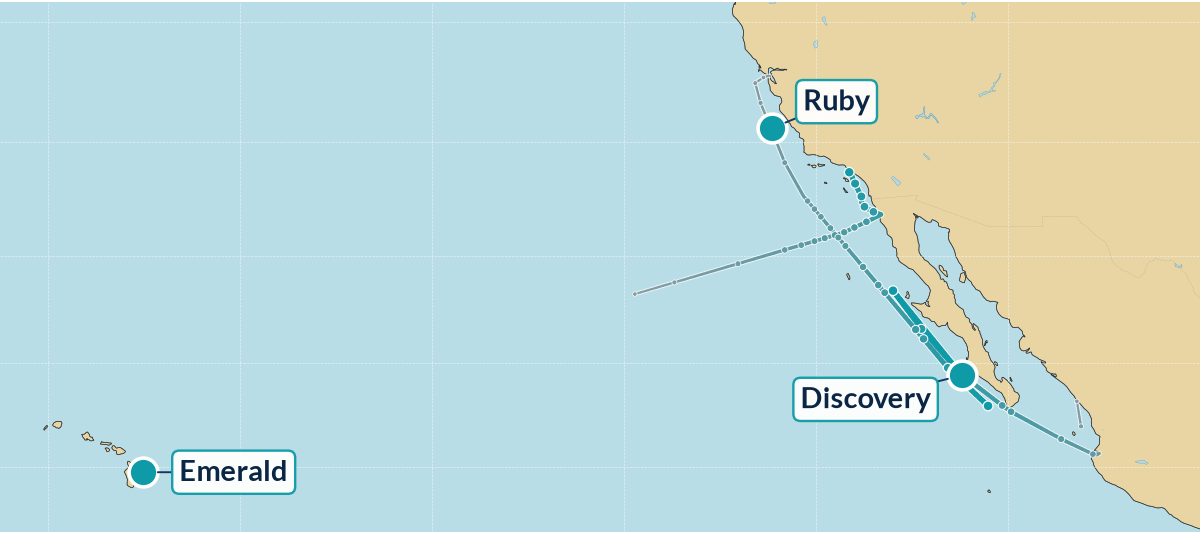
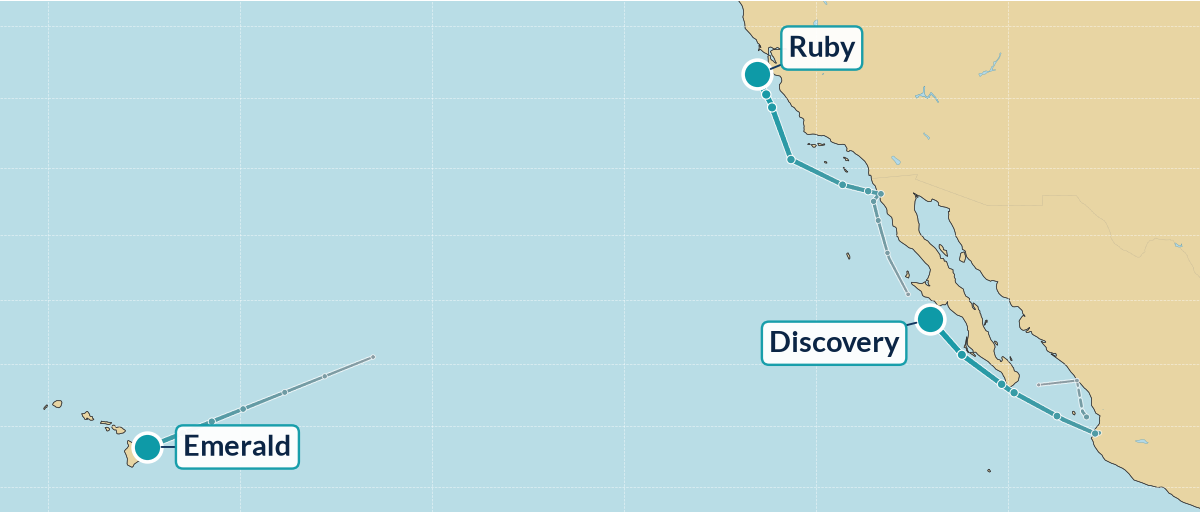
Update 10/23 00:00 PT

diff --git a/index.html b/index.html
@@ -1,48 +1,48 @@
 <!DOCTYPE html><html lang="en"><head><meta charset="utf-8"><meta name="viewport" content="width=device-width, initial-scale=1"><meta http-equiv="refresh" content="1800"><meta name="description" content="Live Princess Cruises fleet tracker"><title>Princess Patter — Thursday, October 22, 2026</title></head>
 <body style="margin:0;padding:0;background-color:#dee2e8;">
-<div style="display:none;max-height:0;overflow:hidden;opacity:0;color:#dee2e8;font-size:1px;line-height:1px;">Thursday, October 22, 2026 — 4:00pm PT | 17 ships | 12 at sea, 5 in port</div>
+<div style="display:none;max-height:0;overflow:hidden;opacity:0;color:#dee2e8;font-size:1px;line-height:1px;">Thursday, October 22, 2026 — 11:00pm PT | 17 ships | 12 at sea, 5 in port</div>
 <table role="presentation" width="100%" cellpadding="0" cellspacing="0" border="0" bgcolor="#dee2e8" style="background-color:#dee2e8;border-collapse:collapse;"><tr><td align="center" style="padding:16px 8px;">
 <table role="presentation" width="100%" cellpadding="0" cellspacing="0" border="0" bgcolor="#fdfdfb" style="width:100%;max-width:900px;background-color:#fdfdfb;border-collapse:collapse;border:1px solid #d6dae0;">
 <tr><td bgcolor="#1d3a6b" align="left" style="background-color:#1d3a6b;padding:24px 28px 24px 28px;"><div style="font-family:Georgia, 'Times New Roman', Times, serif;font-size:40px;line-height:46px;color:#ffffff;letter-spacing:0.5px;"><span style="color:#a8b6e2;">≋</span>&nbsp;Princess Patter</div></td></tr>
-<tr><td style="padding:0;"><table role="presentation" width="100%" cellpadding="0" cellspacing="0" border="0" style="border-collapse:collapse;"><tr><td height="5" bgcolor="#6a5aa8" style="background-color:#6a5aa8;height:5px;font-size:0;line-height:0;width:60%;">&nbsp;</td><td height="5" bgcolor="#2f6db5" style="background-color:#2f6db5;height:5px;font-size:0;line-height:0;width:40%;">&nbsp;</td></tr></table></td></tr><tr><td bgcolor="#1d3a6b" style="background:linear-gradient(#1d3a6b,#2f6db5);padding:10px 16px 14px;text-align:center;"><img src="regal.png?v=202610222301" alt="Regal Princess" style="width:100%;max-width:640px;height:auto;display:block;margin:0 auto;"></td></tr>
+<tr><td style="padding:0;"><table role="presentation" width="100%" cellpadding="0" cellspacing="0" border="0" style="border-collapse:collapse;"><tr><td height="5" bgcolor="#6a5aa8" style="background-color:#6a5aa8;height:5px;font-size:0;line-height:0;width:60%;">&nbsp;</td><td height="5" bgcolor="#2f6db5" style="background-color:#2f6db5;height:5px;font-size:0;line-height:0;width:40%;">&nbsp;</td></tr></table></td></tr><tr><td bgcolor="#1d3a6b" style="background:linear-gradient(#1d3a6b,#2f6db5);padding:10px 16px 14px;text-align:center;"><img src="regal.png?v=202610230000" alt="Regal Princess" style="width:100%;max-width:640px;height:auto;display:block;margin:0 auto;"></td></tr>
 <tr><td style="padding:22px 20px 6px 20px;">
-<div style="font-family:Georgia, 'Times New Roman', Times, serif;font-style:italic;font-size:20px;line-height:26px;color:#2f6db5;">Good afternoon!</div>
+<div style="font-family:Georgia, 'Times New Roman', Times, serif;font-style:italic;font-size:20px;line-height:26px;color:#2f6db5;">Good evening!</div>
 <div style="font-family:Georgia, 'Times New Roman', Times, serif;font-weight:bold;font-size:26px;line-height:32px;color:#1d3a6b;padding-top:6px;">Thursday, October 22, 2026</div>
-<div style="font-family:Helvetica, Arial, sans-serif;font-size:16px;line-height:22px;color:#2f6db5;padding-top:4px;">4:00pm PT | 17 ships | 12 at sea, 5 in port</div>
-</td></tr><tr><td style="padding:14px 20px 0 20px;"><div style="font-family:Georgia, 'Times New Roman', Times, serif;font-style:italic;font-weight:bold;font-size:18px;color:#295aa0;padding:0 4px 4px;border-bottom:1px solid #295aa0;">pacific map</div><a href="map.png?v=202610222301"><img src="map.png?v=202610222301" alt="Pacific fleet map" style="width:100%;height:auto;display:block;margin-top:8px;border-radius:12px;border:2px solid #c8dee2;"></a></td></tr>
+<div style="font-family:Helvetica, Arial, sans-serif;font-size:16px;line-height:22px;color:#2f6db5;padding-top:4px;">11:00pm PT | 17 ships | 12 at sea, 5 in port</div>
+</td></tr><tr><td style="padding:14px 20px 0 20px;"><div style="font-family:Georgia, 'Times New Roman', Times, serif;font-style:italic;font-weight:bold;font-size:18px;color:#295aa0;padding:0 4px 4px;border-bottom:1px solid #295aa0;">pacific map</div><a href="map.png?v=202610230000"><img src="map.png?v=202610230000" alt="Pacific fleet map" style="width:100%;height:auto;display:block;margin-top:8px;border-radius:12px;border:2px solid #c8dee2;"></a></td></tr>
 <tr><td style="padding:14px 20px 4px 20px;">
 <table role="presentation" width="100%" cellpadding="0" cellspacing="0" border="0" style="border-collapse:collapse;width:100%;font-family:Helvetica, Arial, sans-serif;font-size:15px;line-height:20px;color:#262c38;">
 <tr bgcolor="#2f6db5" style="background-color:#2f6db5;"><td style="font-size:14px;line-height:18px;font-weight:bold;color:#ffffff;text-align:left;padding:9px 8px;padding-left:10px;" colspan="2">Ship</td><td style="font-size:14px;line-height:18px;font-weight:bold;color:#ffffff;text-align:left;padding:9px 8px;">Where</td><td style="font-size:14px;line-height:18px;font-weight:bold;color:#ffffff;text-align:left;padding:9px 8px;">Next Port</td></tr>
 <tr><td colspan="4" style="padding:14px 4px 4px 4px;border-bottom:1px solid #295aa0;font-family:Georgia, 'Times New Roman', Times, serif;font-style:italic;font-weight:bold;font-size:18px;line-height:22px;color:#295aa0;">california coastal &amp; pacific northwest</td></tr>
-<tr bgcolor="#eef0f3" style="background-color:#eef0f3;"><td width="18" style="padding:7px 0 7px 8px;vertical-align:top;width:18px;color:#1a9a9a;font-size:18px;">&nbsp;</td><td style="padding:7px 8px;vertical-align:top;"><b style="color:#1d3a6b;">Ruby</b></td><td style="padding:7px 8px;vertical-align:top;">At Sea <span style="white-space:nowrap;font-size:12px;color:#707884;" title="Forecast high/low">☁&thinsp;61°</span> <span style="font-size:12px;color:#707884;"><span style="white-space:nowrap;">🌊 8 ft</span> &middot; <span style="white-space:nowrap;">💨 NNW 22 kt</span> &middot; <span style="white-space:nowrap;">🚢 17.2 kn</span></span></td><td style="padding:7px 8px;vertical-align:top;">San Francisco <span style="white-space:nowrap;font-size:12px;color:#707884;" title="Forecast high/low">☁&thinsp;68°/52°</span> <span style="font-size:13px;color:#707884;">(10/23 7am)</span></td></tr>
+<tr bgcolor="#eef0f3" style="background-color:#eef0f3;"><td width="18" style="padding:7px 0 7px 8px;vertical-align:top;width:18px;color:#1a9a9a;font-size:18px;">&nbsp;</td><td style="padding:7px 8px;vertical-align:top;"><b style="color:#1d3a6b;">Ruby</b></td><td style="padding:7px 8px;vertical-align:top;">At Sea <span style="white-space:nowrap;font-size:12px;color:#707884;" title="Forecast high/low">☁&thinsp;60°</span> <span style="font-size:12px;color:#707884;"><span style="white-space:nowrap;">🌊 9 ft</span> &middot; <span style="white-space:nowrap;">💨 NW 19 kt</span> &middot; <span style="white-space:nowrap;">🚢 11.3 kn</span></span></td><td style="padding:7px 8px;vertical-align:top;">San Francisco <span style="white-space:nowrap;font-size:12px;color:#707884;" title="Forecast high/low">☁&thinsp;68°/52°</span> <span style="font-size:13px;color:#707884;">(10/23 7am)</span></td></tr>
 <tr><td colspan="4" style="padding:14px 4px 4px 4px;border-bottom:1px solid #295aa0;font-family:Georgia, 'Times New Roman', Times, serif;font-style:italic;font-weight:bold;font-size:18px;line-height:22px;color:#295aa0;">canada &amp; new england</td></tr>
-<tr bgcolor="#eef0f3" style="background-color:#eef0f3;"><td width="18" style="padding:7px 0 7px 8px;vertical-align:top;width:18px;color:#1a9a9a;font-size:18px;">&nbsp;</td><td style="padding:7px 8px;vertical-align:top;"><b style="color:#1d3a6b;">Majestic</b></td><td style="padding:7px 8px;vertical-align:top;">Halifax <span style="white-space:nowrap;font-size:12px;color:#707884;" title="Forecast high/low">☁&thinsp;44°</span> <span style="font-size:13px;color:#707884;">(5pm)</span></td><td style="padding:7px 8px;vertical-align:top;">New York <span style="white-space:nowrap;font-size:12px;color:#707884;" title="Forecast high/low">☁&thinsp;61°/36°</span> <span style="font-size:13px;color:#707884;">(10/24 4am)</span></td></tr>
+<tr bgcolor="#eef0f3" style="background-color:#eef0f3;"><td width="18" style="padding:7px 0 7px 8px;vertical-align:top;width:18px;color:#1a9a9a;font-size:18px;">&nbsp;</td><td style="padding:7px 8px;vertical-align:top;"><b style="color:#1d3a6b;">Majestic</b></td><td style="padding:7px 8px;vertical-align:top;">At Sea <span style="white-space:nowrap;font-size:12px;color:#707884;" title="Forecast high/low">🌙&thinsp;50°</span> <span style="font-size:12px;color:#707884;"><span style="white-space:nowrap;">🌊 10 ft</span> &middot; <span style="white-space:nowrap;">💨 N 30 kt</span> &middot; <span style="white-space:nowrap;">🚢 18.5 kn</span></span></td><td style="padding:7px 8px;vertical-align:top;">New York <span style="white-space:nowrap;font-size:12px;color:#707884;" title="Forecast high/low">☁&thinsp;61°/36°</span> <span style="font-size:13px;color:#707884;">(10/24 4am)</span></td></tr>
 <tr bgcolor="#ffffff" style="background-color:#ffffff;"><td width="18" style="padding:7px 0 7px 8px;vertical-align:top;width:18px;color:#1a9a9a;font-size:18px;">&nbsp;</td><td style="padding:7px 8px;vertical-align:top;"><b style="color:#1d3a6b;">Sapphire</b></td><td style="padding:7px 8px;vertical-align:top;">Quebec City <span style="font-size:13px;color:#707884;">(10/23 2pm)</span></td><td style="padding:7px 8px;vertical-align:top;">Saguenay <span style="white-space:nowrap;font-size:12px;color:#707884;" title="Forecast high/low">☀&thinsp;51°/32°</span> <span style="font-size:13px;color:#707884;">(10/24 4am)</span></td></tr>
 <tr><td colspan="4" style="padding:14px 4px 4px 4px;border-bottom:1px solid #295aa0;font-family:Georgia, 'Times New Roman', Times, serif;font-style:italic;font-weight:bold;font-size:18px;line-height:22px;color:#295aa0;">caribbean</td></tr>
-<tr bgcolor="#eef0f3" style="background-color:#eef0f3;"><td width="18" style="padding:7px 0 7px 8px;vertical-align:top;width:18px;color:#1a9a9a;font-size:18px;">&nbsp;</td><td style="padding:7px 8px;vertical-align:top;"><b style="color:#1d3a6b;">Caribbean</b></td><td style="padding:7px 8px;vertical-align:top;">Oranjestad <span style="white-space:nowrap;font-size:12px;color:#707884;" title="Forecast high/low">☁&thinsp;83°</span> <span style="font-size:13px;color:#707884;">(7pm)</span></td><td style="padding:7px 8px;vertical-align:top;">Willemstad <span style="white-space:nowrap;font-size:12px;color:#707884;" title="Forecast high/low">☁&thinsp;89°/82°</span> <span style="font-size:13px;color:#707884;">(10/23 5am)</span></td></tr>
-<tr bgcolor="#ffffff" style="background-color:#ffffff;"><td width="18" style="padding:7px 0 7px 8px;vertical-align:top;width:18px;color:#1a9a9a;font-size:18px;">&nbsp;</td><td style="padding:7px 8px;vertical-align:top;"><b style="color:#1d3a6b;">Coral</b></td><td style="padding:7px 8px;vertical-align:top;">At Sea <span style="white-space:nowrap;font-size:12px;color:#707884;" title="Forecast high/low">🌙&thinsp;83°</span> <span style="font-size:12px;color:#707884;"><span style="white-space:nowrap;">🌊 3 ft</span> &middot; <span style="white-space:nowrap;">💨 ESE 13 kt</span> &middot; <span style="white-space:nowrap;">🚢 10.7 kn</span></span></td><td style="padding:7px 8px;vertical-align:top;">Port-of-Spain <span style="white-space:nowrap;font-size:12px;color:#707884;" title="Forecast high/low">☀&thinsp;90°/75°</span> <span style="font-size:13px;color:#707884;">(10/23 4am)</span></td></tr>
-<tr bgcolor="#eef0f3" style="background-color:#eef0f3;"><td width="18" style="padding:7px 0 7px 8px;vertical-align:top;width:18px;color:#1a9a9a;font-size:18px;">&nbsp;</td><td style="padding:7px 8px;vertical-align:top;"><b style="color:#1d3a6b;">Regal</b></td><td style="padding:7px 8px;vertical-align:top;">At Sea <span style="white-space:nowrap;font-size:12px;color:#707884;" title="Forecast high/low">☁&thinsp;84°</span> <span style="font-size:12px;color:#707884;"><span style="white-space:nowrap;">🌊 7 ft</span> &middot; <span style="white-space:nowrap;">💨 ESE 9 kt</span> &middot; <span style="white-space:nowrap;">🚢 16.4 kn</span></span></td><td style="padding:7px 8px;vertical-align:top;">Fort Lauderdale <span style="white-space:nowrap;font-size:12px;color:#707884;" title="Forecast high/low">🌧&thinsp;79°/68°</span> <span style="font-size:13px;color:#707884;">(10/24 3am)</span></td></tr>
-<tr bgcolor="#ffffff" style="background-color:#ffffff;"><td width="18" style="padding:7px 0 7px 8px;vertical-align:top;width:18px;color:#1a9a9a;font-size:18px;">&nbsp;</td><td style="padding:7px 8px;vertical-align:top;"><b style="color:#1d3a6b;">Star</b></td><td style="padding:7px 8px;vertical-align:top;">At Sea <span style="white-space:nowrap;font-size:12px;color:#707884;" title="Forecast high/low">☁&thinsp;84°</span> <span style="font-size:12px;color:#707884;"><span style="white-space:nowrap;">🌊 7 ft</span> &middot; <span style="white-space:nowrap;">💨 ESE 9 kt</span> &middot; <span style="white-space:nowrap;">🚢 18.3 kn</span></span></td><td style="padding:7px 8px;vertical-align:top;">Fort Lauderdale <span style="white-space:nowrap;font-size:12px;color:#707884;" title="Forecast high/low">🌧&thinsp;79°/68°</span> <span style="font-size:13px;color:#707884;">(10/24 3am)</span></td></tr>
+<tr bgcolor="#eef0f3" style="background-color:#eef0f3;"><td width="18" style="padding:7px 0 7px 8px;vertical-align:top;width:18px;color:#1a9a9a;font-size:18px;">&nbsp;</td><td style="padding:7px 8px;vertical-align:top;"><b style="color:#1d3a6b;">Caribbean</b></td><td style="padding:7px 8px;vertical-align:top;">At Sea <span style="white-space:nowrap;font-size:12px;color:#707884;" title="Forecast high/low">☁&thinsp;83°</span> <span style="font-size:12px;color:#707884;"><span style="white-space:nowrap;">🌊 4 ft</span> &middot; <span style="white-space:nowrap;">💨 ESE 17 kt</span></span></td><td style="padding:7px 8px;vertical-align:top;">Willemstad <span style="white-space:nowrap;font-size:12px;color:#707884;" title="Forecast high/low">☁&thinsp;88°/82°</span> <span style="font-size:13px;color:#707884;">(10/23 5am)</span></td></tr>
+<tr bgcolor="#ffffff" style="background-color:#ffffff;"><td width="18" style="padding:7px 0 7px 8px;vertical-align:top;width:18px;color:#1a9a9a;font-size:18px;">&nbsp;</td><td style="padding:7px 8px;vertical-align:top;"><b style="color:#1d3a6b;">Coral</b></td><td style="padding:7px 8px;vertical-align:top;">At Sea <span style="white-space:nowrap;font-size:12px;color:#707884;" title="Forecast high/low">☁&thinsp;82°</span> <span style="font-size:12px;color:#707884;"><span style="white-space:nowrap;">🌊 3 ft</span> &middot; <span style="white-space:nowrap;">💨 ESE 10 kt</span> &middot; <span style="white-space:nowrap;">🚢 10.4 kn</span></span></td><td style="padding:7px 8px;vertical-align:top;">Port-of-Spain <span style="white-space:nowrap;font-size:12px;color:#707884;" title="Forecast high/low">⛅&thinsp;91°/75°</span> <span style="font-size:13px;color:#707884;">(10/23 4am)</span></td></tr>
+<tr bgcolor="#eef0f3" style="background-color:#eef0f3;"><td width="18" style="padding:7px 0 7px 8px;vertical-align:top;width:18px;color:#1a9a9a;font-size:18px;">&nbsp;</td><td style="padding:7px 8px;vertical-align:top;"><b style="color:#1d3a6b;">Regal</b></td><td style="padding:7px 8px;vertical-align:top;">At Sea <span style="white-space:nowrap;font-size:12px;color:#707884;" title="Forecast high/low">☁&thinsp;83°</span> <span style="font-size:12px;color:#707884;"><span style="white-space:nowrap;">🌊 8 ft</span> &middot; <span style="white-space:nowrap;">💨 SSE 5 kt</span> &middot; <span style="white-space:nowrap;">🚢 16.9 kn</span></span></td><td style="padding:7px 8px;vertical-align:top;">Fort Lauderdale <span style="white-space:nowrap;font-size:12px;color:#707884;" title="Forecast high/low">🌧&thinsp;79°/68°</span> <span style="font-size:13px;color:#707884;">(10/24 3am)</span></td></tr>
+<tr bgcolor="#ffffff" style="background-color:#ffffff;"><td width="18" style="padding:7px 0 7px 8px;vertical-align:top;width:18px;color:#1a9a9a;font-size:18px;">&nbsp;</td><td style="padding:7px 8px;vertical-align:top;"><b style="color:#1d3a6b;">Star</b></td><td style="padding:7px 8px;vertical-align:top;">At Sea <span style="white-space:nowrap;font-size:12px;color:#707884;" title="Forecast high/low">☁&thinsp;83°</span> <span style="font-size:12px;color:#707884;"><span style="white-space:nowrap;">🌊 8 ft</span> &middot; <span style="white-space:nowrap;">💨 SSE 6 kt</span> &middot; <span style="white-space:nowrap;">🚢 18.9 kn</span></span></td><td style="padding:7px 8px;vertical-align:top;">Fort Lauderdale <span style="white-space:nowrap;font-size:12px;color:#707884;" title="Forecast high/low">🌧&thinsp;79°/68°</span> <span style="font-size:13px;color:#707884;">(10/24 3am)</span></td></tr>
 <tr><td colspan="4" style="padding:14px 4px 4px 4px;border-bottom:1px solid #295aa0;font-family:Georgia, 'Times New Roman', Times, serif;font-style:italic;font-weight:bold;font-size:18px;line-height:22px;color:#295aa0;">hawaii</td></tr>
-<tr bgcolor="#eef0f3" style="background-color:#eef0f3;"><td width="18" style="padding:7px 0 7px 8px;vertical-align:top;width:18px;color:#1a9a9a;font-size:18px;">&nbsp;</td><td style="padding:7px 8px;vertical-align:top;"><b style="color:#1d3a6b;">Emerald</b></td><td style="padding:7px 8px;vertical-align:top;">Hilo <span style="white-space:nowrap;font-size:12px;color:#707884;" title="Forecast high/low">🌙&thinsp;71°</span> <span style="font-size:13px;color:#707884;">(8pm)</span></td><td style="padding:7px 8px;vertical-align:top;">Kahului <span style="white-space:nowrap;font-size:12px;color:#707884;" title="Forecast high/low">🌦&thinsp;84°/73°</span> <span style="font-size:13px;color:#707884;">(10/23 10am)</span></td></tr>
+<tr bgcolor="#eef0f3" style="background-color:#eef0f3;"><td width="18" style="padding:7px 0 7px 8px;vertical-align:top;width:18px;color:#1a9a9a;font-size:18px;">&nbsp;</td><td style="padding:7px 8px;vertical-align:top;"><b style="color:#1d3a6b;">Emerald</b></td><td style="padding:7px 8px;vertical-align:top;">At Sea <span style="white-space:nowrap;font-size:12px;color:#707884;" title="Forecast high/low">🌙&thinsp;79°</span> <span style="font-size:12px;color:#707884;"><span style="white-space:nowrap;">🌊 5 ft</span> &middot; <span style="white-space:nowrap;">💨 S 4 kt</span> &middot; <span style="white-space:nowrap;">🚢 12.1 kn</span></span></td><td style="padding:7px 8px;vertical-align:top;">Kahului <span style="white-space:nowrap;font-size:12px;color:#707884;" title="Forecast high/low">☁&thinsp;84°/75°</span> <span style="font-size:13px;color:#707884;">(10/23 10am)</span></td></tr>
 <tr><td colspan="4" style="padding:14px 4px 4px 4px;border-bottom:1px solid #295aa0;font-family:Georgia, 'Times New Roman', Times, serif;font-style:italic;font-weight:bold;font-size:18px;line-height:22px;color:#295aa0;">mexican riviera</td></tr>
-<tr bgcolor="#eef0f3" style="background-color:#eef0f3;"><td width="18" style="padding:7px 0 7px 8px;vertical-align:top;width:18px;color:#1a9a9a;font-size:18px;">&nbsp;</td><td style="padding:7px 8px;vertical-align:top;"><b style="color:#1d3a6b;">Discovery</b></td><td style="padding:7px 8px;vertical-align:top;">At Sea <span style="white-space:nowrap;font-size:12px;color:#707884;" title="Forecast high/low">🌙&thinsp;82°</span> <span style="font-size:12px;color:#707884;"><span style="white-space:nowrap;">🌊 6 ft</span> &middot; <span style="white-space:nowrap;">💨 N 14 kt</span> &middot; <span style="white-space:nowrap;">🚢 20.7 kn</span></span></td><td style="padding:7px 8px;vertical-align:top;">Los Angeles <span style="white-space:nowrap;font-size:12px;color:#707884;" title="Forecast high/low">☀&thinsp;81°/55°</span> <span style="font-size:13px;color:#707884;">(10/24 6:15am)</span></td></tr>
+<tr bgcolor="#eef0f3" style="background-color:#eef0f3;"><td width="18" style="padding:7px 0 7px 8px;vertical-align:top;width:18px;color:#1a9a9a;font-size:18px;">&nbsp;</td><td style="padding:7px 8px;vertical-align:top;"><b style="color:#1d3a6b;">Discovery</b></td><td style="padding:7px 8px;vertical-align:top;">At Sea <span style="white-space:nowrap;font-size:12px;color:#707884;" title="Forecast high/low">🌙&thinsp;77°</span> <span style="font-size:12px;color:#707884;"><span style="white-space:nowrap;">🌊 6 ft</span> &middot; <span style="white-space:nowrap;">💨 NNW 17 kt</span> &middot; <span style="white-space:nowrap;">🚢 18.7 kn</span></span></td><td style="padding:7px 8px;vertical-align:top;">Los Angeles <span style="white-space:nowrap;font-size:12px;color:#707884;" title="Forecast high/low">☀&thinsp;81°/55°</span> <span style="font-size:13px;color:#707884;">(10/24 6:15am)</span></td></tr>
 <tr><td colspan="4" style="padding:14px 4px 4px 4px;border-bottom:1px solid #295aa0;font-family:Georgia, 'Times New Roman', Times, serif;font-style:italic;font-weight:bold;font-size:18px;line-height:22px;color:#295aa0;">asia</td></tr>
-<tr bgcolor="#eef0f3" style="background-color:#eef0f3;"><td width="18" style="padding:7px 0 7px 8px;vertical-align:top;width:18px;color:#1a9a9a;font-size:18px;">&nbsp;</td><td style="padding:7px 8px;vertical-align:top;"><b style="color:#1d3a6b;">Diamond</b></td><td style="padding:7px 8px;vertical-align:top;">At Sea <span style="white-space:nowrap;font-size:12px;color:#707884;" title="Forecast high/low">⛅&thinsp;70°</span> <span style="font-size:12px;color:#707884;"><span style="white-space:nowrap;">🌊 4 ft</span> &middot; <span style="white-space:nowrap;">💨 ESE 14 kt</span></span></td><td style="padding:7px 8px;vertical-align:top;">Hiroshima <span style="white-space:nowrap;font-size:12px;color:#707884;" title="Forecast high/low">🌧&thinsp;68°/57°</span> <span style="font-size:13px;color:#707884;">(10/23 3pm)</span></td></tr>
+<tr bgcolor="#eef0f3" style="background-color:#eef0f3;"><td width="18" style="padding:7px 0 7px 8px;vertical-align:top;width:18px;color:#1a9a9a;font-size:18px;">&nbsp;</td><td style="padding:7px 8px;vertical-align:top;"><b style="color:#1d3a6b;">Diamond</b></td><td style="padding:7px 8px;vertical-align:top;">At Sea <span style="white-space:nowrap;font-size:12px;color:#707884;" title="Forecast high/low">🌦&thinsp;68°</span> <span style="font-size:12px;color:#707884;"><span style="white-space:nowrap;">🌊 2 ft</span> &middot; <span style="white-space:nowrap;">💨 ESE 13 kt</span></span></td><td style="padding:7px 8px;vertical-align:top;">Hiroshima <span style="white-space:nowrap;font-size:12px;color:#707884;" title="Forecast high/low">🌧&thinsp;68°/57°</span> <span style="font-size:13px;color:#707884;">(10/23 3pm)</span></td></tr>
 <tr bgcolor="#ffffff" style="background-color:#ffffff;"><td width="18" style="padding:7px 0 7px 8px;vertical-align:top;width:18px;color:#1a9a9a;font-size:18px;">&nbsp;</td><td style="padding:7px 8px;vertical-align:top;"><b style="color:#1d3a6b;">Royal</b></td><td style="padding:7px 8px;vertical-align:top;">Singapore <span style="font-size:13px;color:#707884;">(Drydock)</span></td><td style="padding:7px 8px;vertical-align:top;">Drydock <span style="font-size:13px;color:#707884;">(to 11/1)</span></td></tr>
 <tr><td colspan="4" style="padding:14px 4px 4px 4px;border-bottom:1px solid #295aa0;font-family:Georgia, 'Times New Roman', Times, serif;font-style:italic;font-weight:bold;font-size:18px;line-height:22px;color:#295aa0;">australia &amp; new zealand</td></tr>
-<tr bgcolor="#eef0f3" style="background-color:#eef0f3;"><td width="18" style="padding:7px 0 7px 8px;vertical-align:top;width:18px;color:#1a9a9a;font-size:18px;">&nbsp;</td><td style="padding:7px 8px;vertical-align:top;"><b style="color:#1d3a6b;">Crown</b></td><td style="padding:7px 8px;vertical-align:top;">At Sea <span style="white-space:nowrap;font-size:12px;color:#707884;" title="Forecast high/low">☀&thinsp;82°</span> <span style="font-size:12px;color:#707884;"><span style="white-space:nowrap;">🌊 2 ft</span> &middot; <span style="white-space:nowrap;">💨 W 9 kt</span> &middot; <span style="white-space:nowrap;">🚢 12.8 kn</span></span></td><td style="padding:7px 8px;vertical-align:top;">Darwin <span style="white-space:nowrap;font-size:12px;color:#707884;" title="Forecast high/low">🌦&thinsp;87°/80°</span> <span style="font-size:13px;color:#707884;">(10/25 2:30pm)</span></td></tr>
+<tr bgcolor="#eef0f3" style="background-color:#eef0f3;"><td width="18" style="padding:7px 0 7px 8px;vertical-align:top;width:18px;color:#1a9a9a;font-size:18px;">&nbsp;</td><td style="padding:7px 8px;vertical-align:top;"><b style="color:#1d3a6b;">Crown</b></td><td style="padding:7px 8px;vertical-align:top;">At Sea <span style="white-space:nowrap;font-size:12px;color:#707884;" title="Forecast high/low">☀&thinsp;84°</span> <span style="font-size:12px;color:#707884;"><span style="white-space:nowrap;">🌊 1 ft</span> &middot; <span style="white-space:nowrap;">💨 WNW 13 kt</span> &middot; <span style="white-space:nowrap;">🚢 15.7 kn</span></span></td><td style="padding:7px 8px;vertical-align:top;">Darwin <span style="white-space:nowrap;font-size:12px;color:#707884;" title="Forecast high/low">🌦&thinsp;86°/80°</span> <span style="font-size:13px;color:#707884;">(10/25 2:30pm)</span></td></tr>
 <tr><td colspan="4" style="padding:14px 4px 4px 4px;border-bottom:1px solid #295aa0;font-family:Georgia, 'Times New Roman', Times, serif;font-style:italic;font-weight:bold;font-size:18px;line-height:22px;color:#295aa0;">mediterranean</td></tr>
-<tr bgcolor="#eef0f3" style="background-color:#eef0f3;"><td width="18" style="padding:7px 0 7px 8px;vertical-align:top;width:18px;color:#1a9a9a;font-size:18px;">&nbsp;</td><td style="padding:7px 8px;vertical-align:top;"><b style="color:#1d3a6b;">Enchanted</b></td><td style="padding:7px 8px;vertical-align:top;">At Sea <span style="white-space:nowrap;font-size:12px;color:#707884;" title="Forecast high/low">☁&thinsp;67°</span> <span style="font-size:12px;color:#707884;"><span style="white-space:nowrap;">🌊 5 ft</span> &middot; <span style="white-space:nowrap;">💨 WSW 19 kt</span> &middot; <span style="white-space:nowrap;">🚢 9.6 kn</span></span></td><td style="padding:7px 8px;vertical-align:top;">Livorno <span style="white-space:nowrap;font-size:12px;color:#707884;" title="Forecast high/low">🌦&thinsp;67°/53°</span> <span style="font-size:13px;color:#707884;">(10/22 10pm)</span></td></tr>
-<tr bgcolor="#ffffff" style="background-color:#ffffff;"><td width="18" style="padding:7px 0 7px 8px;vertical-align:top;width:18px;color:#1a9a9a;font-size:18px;">&nbsp;</td><td style="padding:7px 8px;vertical-align:top;"><b style="color:#1d3a6b;">Island</b></td><td style="padding:7px 8px;vertical-align:top;">At Sea <span style="white-space:nowrap;font-size:12px;color:#707884;" title="Forecast high/low">⛅&thinsp;68°</span> <span style="font-size:12px;color:#707884;"><span style="white-space:nowrap;">🌊 3 ft</span> &middot; <span style="white-space:nowrap;">💨 SW 10 kt</span> &middot; <span style="white-space:nowrap;">🚢 10.5 kn</span></span></td><td style="padding:7px 8px;vertical-align:top;">Ajaccio <span style="white-space:nowrap;font-size:12px;color:#707884;" title="Forecast high/low">🌦&thinsp;67°/56°</span> <span style="font-size:13px;color:#707884;">(10/22 10pm)</span></td></tr>
-<tr bgcolor="#eef0f3" style="background-color:#eef0f3;"><td width="18" style="padding:7px 0 7px 8px;vertical-align:top;width:18px;color:#1a9a9a;font-size:18px;">&nbsp;</td><td style="padding:7px 8px;vertical-align:top;"><b style="color:#1d3a6b;">Sun</b></td><td style="padding:7px 8px;vertical-align:top;">At Sea <span style="white-space:nowrap;font-size:12px;color:#707884;" title="Forecast high/low">☀&thinsp;70°</span> <span style="font-size:12px;color:#707884;"><span style="white-space:nowrap;">🌊 2 ft</span> &middot; <span style="white-space:nowrap;">💨 SE 8 kt</span> &middot; <span style="white-space:nowrap;">🚢 8.9 kn</span></span></td><td style="padding:7px 8px;vertical-align:top;">Mykonos <span style="white-space:nowrap;font-size:12px;color:#707884;" title="Forecast high/low">☁&thinsp;73°/65°</span> <span style="font-size:13px;color:#707884;">(10/22 9pm)</span></td></tr>
+<tr bgcolor="#eef0f3" style="background-color:#eef0f3;"><td width="18" style="padding:7px 0 7px 8px;vertical-align:top;width:18px;color:#1a9a9a;font-size:18px;">&nbsp;</td><td style="padding:7px 8px;vertical-align:top;"><b style="color:#1d3a6b;">Enchanted</b></td><td style="padding:7px 8px;vertical-align:top;">Livorno <span style="white-space:nowrap;font-size:12px;color:#707884;" title="Forecast high/low">☁&thinsp;66°</span> <span style="font-size:13px;color:#707884;">(10/23 10am)</span></td><td style="padding:7px 8px;vertical-align:top;">Valletta <span style="white-space:nowrap;font-size:12px;color:#707884;" title="Forecast high/low">☁&thinsp;69°/65°</span> <span style="font-size:13px;color:#707884;">(10/25 12am)</span></td></tr>
+<tr bgcolor="#ffffff" style="background-color:#ffffff;"><td width="18" style="padding:7px 0 7px 8px;vertical-align:top;width:18px;color:#1a9a9a;font-size:18px;">&nbsp;</td><td style="padding:7px 8px;vertical-align:top;"><b style="color:#1d3a6b;">Island</b></td><td style="padding:7px 8px;vertical-align:top;">Ajaccio <span style="white-space:nowrap;font-size:12px;color:#707884;" title="Forecast high/low">⛅&thinsp;58°</span> <span style="font-size:13px;color:#707884;">(10/23 8am)</span></td><td style="padding:7px 8px;vertical-align:top;">Portoferraio <span style="white-space:nowrap;font-size:12px;color:#707884;" title="Forecast high/low">☁&thinsp;69°/63°</span> <span style="font-size:13px;color:#707884;">(10/23 10pm)</span></td></tr>
+<tr bgcolor="#eef0f3" style="background-color:#eef0f3;"><td width="18" style="padding:7px 0 7px 8px;vertical-align:top;width:18px;color:#1a9a9a;font-size:18px;">&nbsp;</td><td style="padding:7px 8px;vertical-align:top;"><b style="color:#1d3a6b;">Sun</b></td><td style="padding:7px 8px;vertical-align:top;">Mykonos <span style="white-space:nowrap;font-size:12px;color:#707884;" title="Forecast high/low">☁&thinsp;70°</span> <span style="font-size:13px;color:#707884;">(10/23 9:30am)</span></td><td style="padding:7px 8px;vertical-align:top;">Piraeus <span style="white-space:nowrap;font-size:12px;color:#707884;" title="Forecast high/low">🌫&thinsp;78°/59°</span> <span style="font-size:13px;color:#707884;">(10/23 7:30pm)</span></td></tr>
 <tr><td colspan="4" style="padding:14px 4px 4px 4px;border-bottom:1px solid #295aa0;font-family:Georgia, 'Times New Roman', Times, serif;font-style:italic;font-weight:bold;font-size:18px;line-height:22px;color:#295aa0;">northern europe</td></tr>
-<tr bgcolor="#eef0f3" style="background-color:#eef0f3;"><td width="18" style="padding:7px 0 7px 8px;vertical-align:top;width:18px;color:#1a9a9a;font-size:18px;">&nbsp;</td><td style="padding:7px 8px;vertical-align:top;"><b style="color:#1d3a6b;">Sky</b></td><td style="padding:7px 8px;vertical-align:top;">At Sea <span style="white-space:nowrap;font-size:12px;color:#707884;" title="Forecast high/low">☁&thinsp;55°</span> <span style="font-size:12px;color:#707884;"><span style="white-space:nowrap;">🌊 5 ft</span> &middot; <span style="white-space:nowrap;">💨 ESE 24 kt</span> &middot; <span style="white-space:nowrap;">🚢 16.8 kn</span></span></td><td style="padding:7px 8px;vertical-align:top;">Southampton <span style="white-space:nowrap;font-size:12px;color:#707884;" title="Forecast high/low">🌧&thinsp;56°/48°</span> <span style="font-size:13px;color:#707884;">(10/23 11pm)</span></td></tr>
+<tr bgcolor="#eef0f3" style="background-color:#eef0f3;"><td width="18" style="padding:7px 0 7px 8px;vertical-align:top;width:18px;color:#1a9a9a;font-size:18px;">&nbsp;</td><td style="padding:7px 8px;vertical-align:top;"><b style="color:#1d3a6b;">Sky</b></td><td style="padding:7px 8px;vertical-align:top;">At Sea <span style="white-space:nowrap;font-size:12px;color:#707884;" title="Forecast high/low">🌦&thinsp;58°</span> <span style="font-size:12px;color:#707884;"><span style="white-space:nowrap;">🌊 7 ft</span> &middot; <span style="white-space:nowrap;">💨 S 29 kt</span> &middot; <span style="white-space:nowrap;">🚢 14.7 kn</span></span></td><td style="padding:7px 8px;vertical-align:top;">Southampton <span style="white-space:nowrap;font-size:12px;color:#707884;" title="Forecast high/low">🌧&thinsp;56°/48°</span> <span style="font-size:13px;color:#707884;">(10/23 11pm)</span></td></tr>
 <tr><td colspan="4" style="padding:14px 4px 4px 4px;border-bottom:1px solid #295aa0;font-family:Georgia, 'Times New Roman', Times, serif;font-style:italic;font-weight:bold;font-size:18px;line-height:22px;color:#295aa0;">tahiti &amp; south pacific</td></tr>
-<tr bgcolor="#eef0f3" style="background-color:#eef0f3;"><td width="18" style="padding:7px 0 7px 8px;vertical-align:top;width:18px;color:#1a9a9a;font-size:18px;">&nbsp;</td><td style="padding:7px 8px;vertical-align:top;"><b style="color:#1d3a6b;">Grand</b></td><td style="padding:7px 8px;vertical-align:top;">At Sea <span style="white-space:nowrap;font-size:12px;color:#707884;" title="Forecast high/low">☁&thinsp;78°</span> <span style="font-size:12px;color:#707884;"><span style="white-space:nowrap;">🌊 6 ft</span> &middot; <span style="white-space:nowrap;">💨 ESE 19 kt</span> &middot; <span style="white-space:nowrap;">🚢 12.1 kn</span></span></td><td style="padding:7px 8px;vertical-align:top;">Lautoka <span style="white-space:nowrap;font-size:12px;color:#707884;" title="Forecast high/low">🌦&thinsp;78°/65°</span> <span style="font-size:13px;color:#707884;">(10/23 1pm)</span></td></tr>
+<tr bgcolor="#eef0f3" style="background-color:#eef0f3;"><td width="18" style="padding:7px 0 7px 8px;vertical-align:top;width:18px;color:#1a9a9a;font-size:18px;">&nbsp;</td><td style="padding:7px 8px;vertical-align:top;"><b style="color:#1d3a6b;">Grand</b></td><td style="padding:7px 8px;vertical-align:top;">At Sea <span style="white-space:nowrap;font-size:12px;color:#707884;" title="Forecast high/low">🌙&thinsp;77°</span> <span style="font-size:12px;color:#707884;"><span style="white-space:nowrap;">🌊 6 ft</span> &middot; <span style="white-space:nowrap;">💨 ESE 21 kt</span> &middot; <span style="white-space:nowrap;">🚢 12.5 kn</span></span></td><td style="padding:7px 8px;vertical-align:top;">Lautoka <span style="white-space:nowrap;font-size:12px;color:#707884;" title="Forecast high/low">🌦&thinsp;80°/65°</span> <span style="font-size:13px;color:#707884;">(10/23 1pm)</span></td></tr>
 </table>
 <div style="font-family:Helvetica, Arial, sans-serif;font-size:13px;line-height:18px;color:#707884;padding:8px 4px 0 4px;"><span style="color:#d6a214;">&#9733;</span> = maiden call (a ship’s first-ever visit to that port)<br>Maiden calls ahead: <b style="color:#966c00;">Star – Celebration Key 11/1</b></div>
 </td></tr>
 <tr><td align="center" style="padding:22px 20px 6px 20px;font-family:Georgia, 'Times New Roman', Times, serif;font-style:italic;font-size:17px;line-height:24px;color:#295aa0;text-align:center;">“Bon voyage!”</td></tr>
-<tr><td align="center" style="padding:2px 20px 24px 20px;font-family:Helvetica, Arial, sans-serif;font-size:12px;line-height:18px;color:#707884;text-align:center;">Fleet positions from Pavlus AIS plus published schedules. Dates/times PT; ~ = AIS estimate.<br>Page updated 10/22/26 11:01pm PT after each fleet check-in.</td></tr>
+<tr><td align="center" style="padding:2px 20px 24px 20px;font-family:Helvetica, Arial, sans-serif;font-size:12px;line-height:18px;color:#707884;text-align:center;">Fleet positions from Pavlus AIS plus published schedules. Dates/times PT; ~ = AIS estimate.<br>Page updated 10/23/26 12:00am PT after each fleet check-in.</td></tr>
 </table></td></tr></table></body></html>
